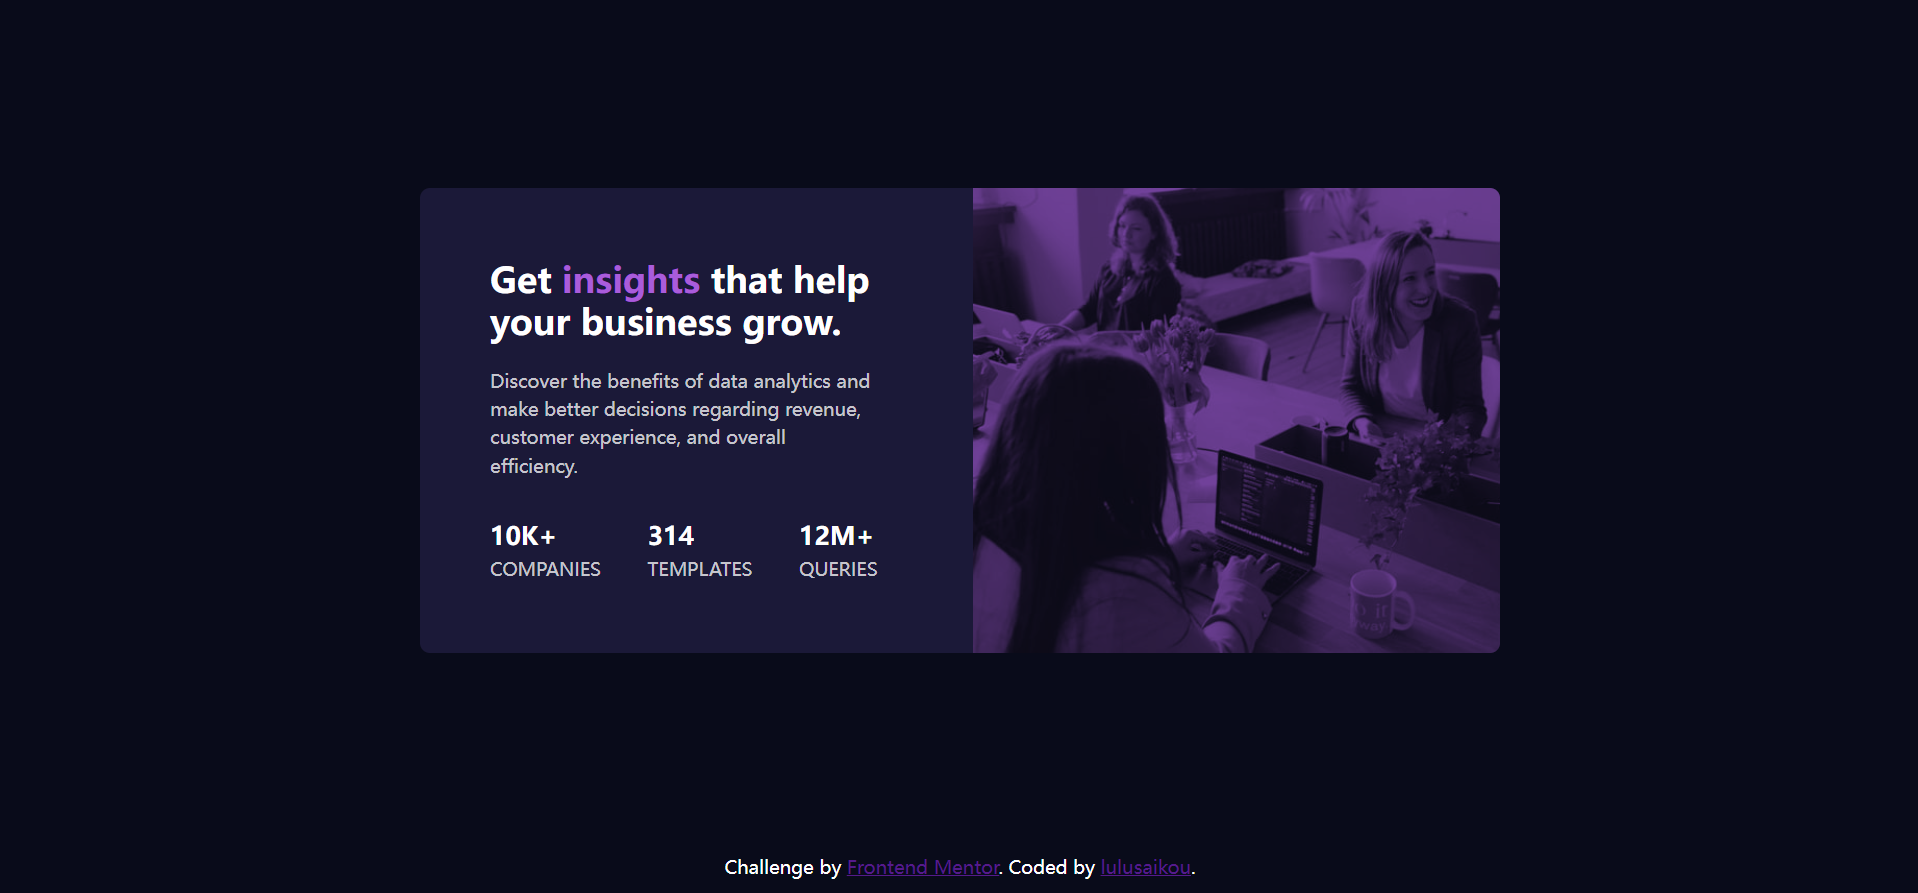
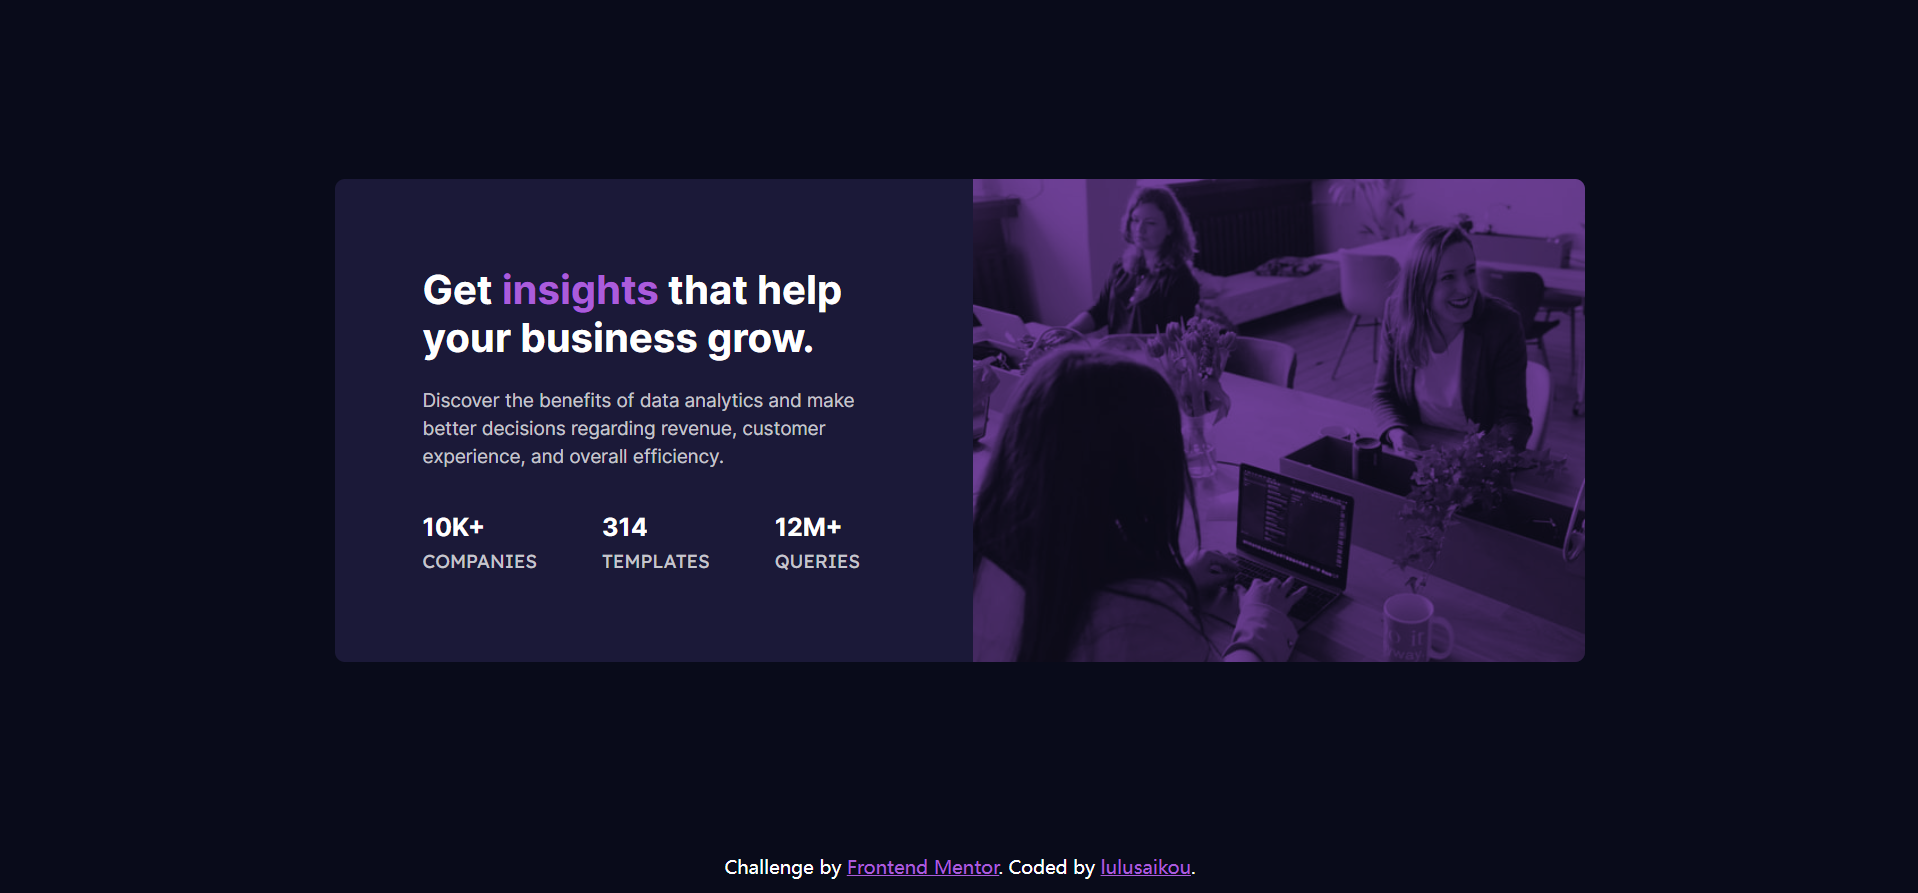
challenge 6 - update css

Changed region(s): [[0.1538, 0.1814, 0.8306, 0.7559], [0.4307, 0.9675, 0.5229, 0.9978], [0.5537, 0.9675, 0.6152, 0.9978]]

diff --git a/stats-preview-card-component/style.css b/stats-preview-card-component/style.css
@@ -80,10 +80,11 @@ main {
 }
 
 .preview {
-  max-width: 86.4rem;
+  max-width: 100rem;
   background-color: var(--clr-secondary);
   color: var(--clr-neutral-500);
   font-size: 1.5rem;
+  font-family: var(--ff-base);
   border-radius: 8px;
   overflow: hidden;
   margin: 0 1rem;
@@ -94,12 +95,12 @@ main {
 }
 
 .preview__content {
-  padding: 5.6rem;
+  padding: 7rem;
 }
 
 .preview__title {
   color: var(--clr-neutral-400);
-  font-size: 2.8rem;
+  font-size: 3.2rem;
   line-height: 1.2;
 }
 
@@ -116,11 +117,13 @@ main {
   display: flex;
   justify-content: space-between;
   text-transform: uppercase;
+  font-family: var(--ff-accent);
 }
 
 .preview__stats strong {
   color: var(--clr-neutral-400);
   font-size: 2rem;
+  font-family: var(--ff-base);
 }
 
 .preview__hero {
@@ -136,6 +139,11 @@ main {
   text-align: center;
   color: white;
   font-size: 1.5rem;
+}
+
+.footer a:link,
+.footer a:visited {
+  color: var(--clr-accent);
 }
 
 @media (max-width: 47em) {
